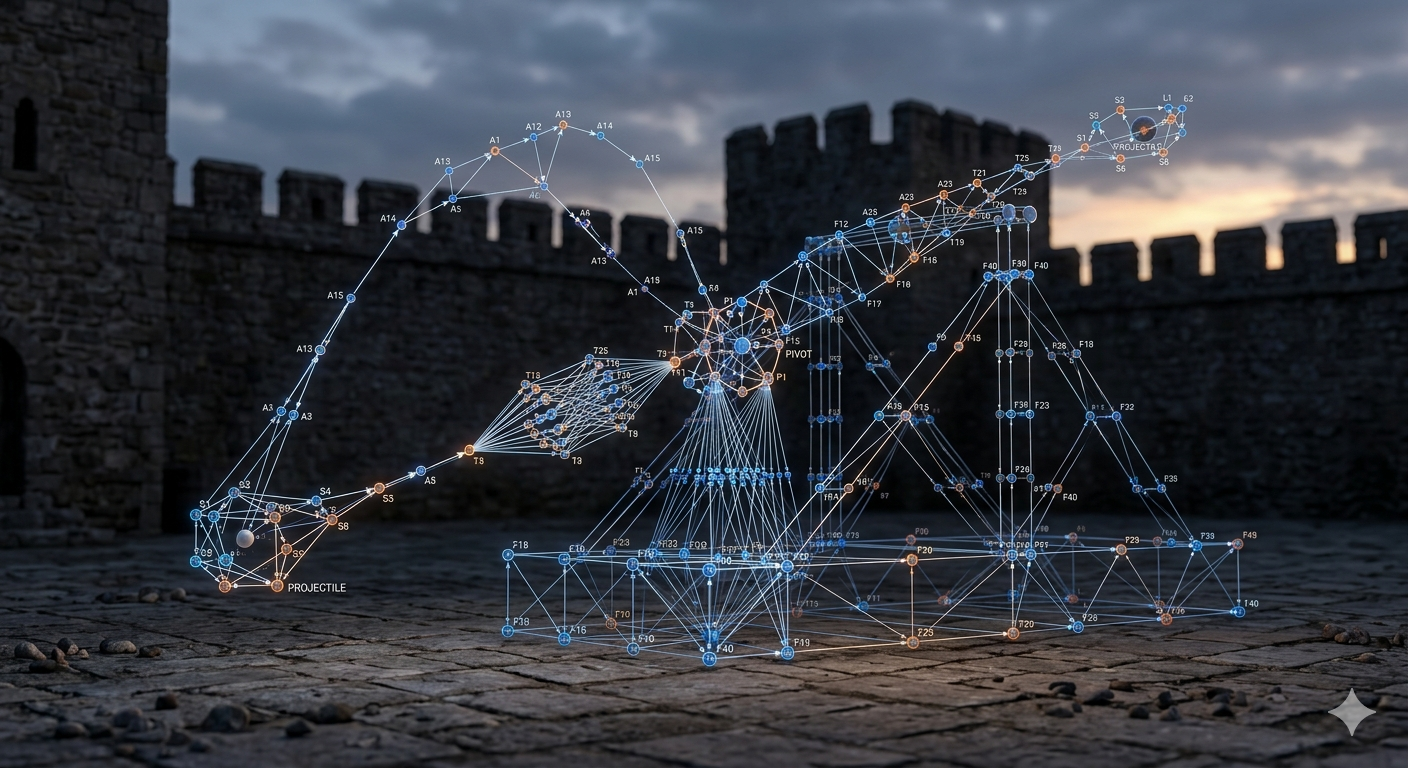
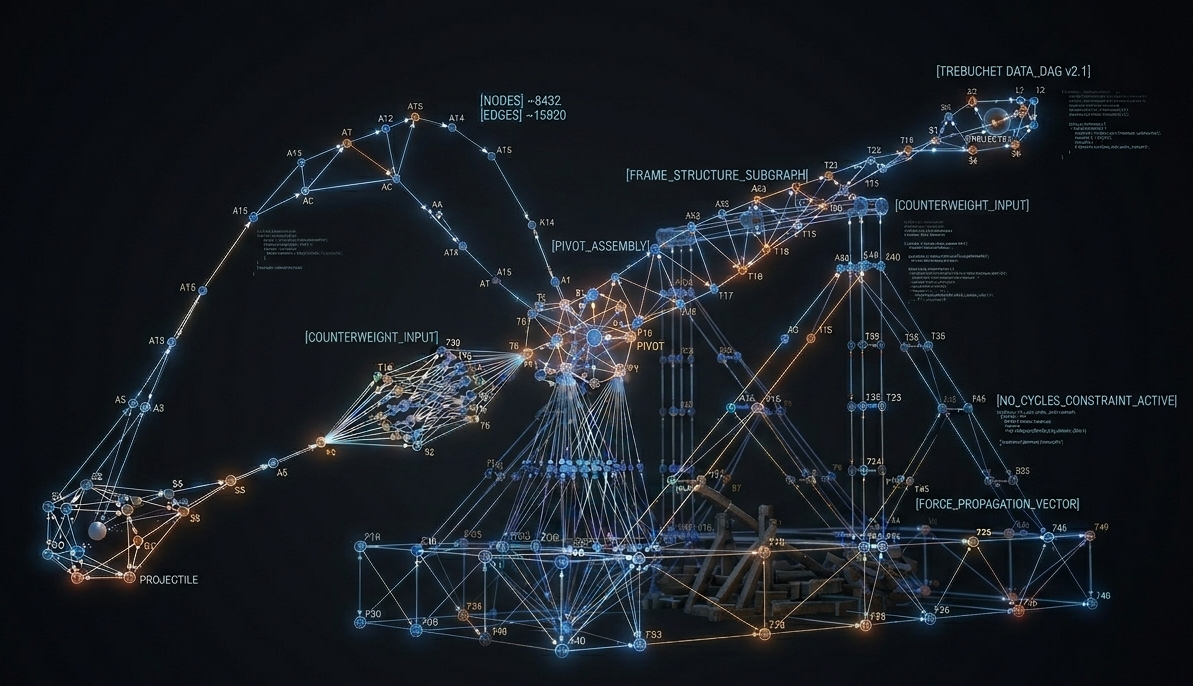
Built site for gh-pages

diff --git a/posts/CausalCatapult.html b/posts/CausalCatapult.html
@@ -148,13 +148,13 @@ details > summary {
 <meta property="og:description" content="Launching over the walls of math">
 <meta property="og:image" content="https://drscotthawley.github.io/blog/posts/images/catapult.png">
 <meta property="og:site_name" content="Scott H. Hawley">
-<meta property="og:image:height" content="768">
-<meta property="og:image:width" content="1408">
+<meta property="og:image:height" content="686">
+<meta property="og:image:width" content="1193">
 <meta name="twitter:title" content="Catapulting into Causal Modeling – Scott H. Hawley">
 <meta name="twitter:description" content="Launching over the walls of math">
 <meta name="twitter:image" content="https://drscotthawley.github.io/blog/posts/images/catapult.png">
-<meta name="twitter:image-height" content="768">
-<meta name="twitter:image-width" content="1408">
+<meta name="twitter:image-height" content="686">
+<meta name="twitter:image-width" content="1193">
 <meta name="twitter:card" content="summary_large_image">
 </head>
 
